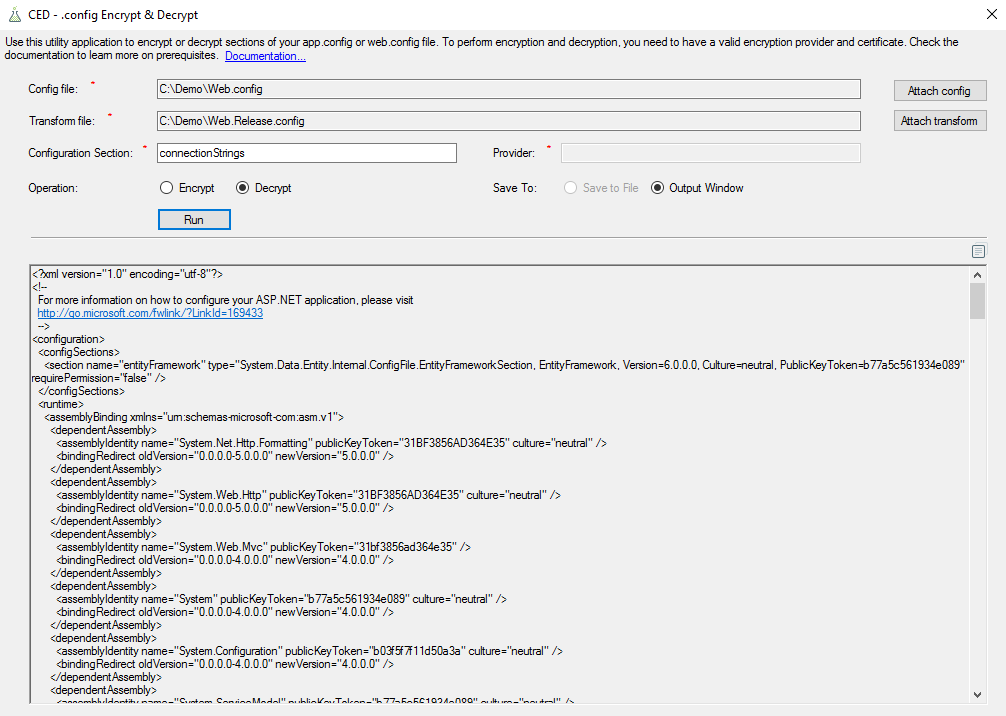
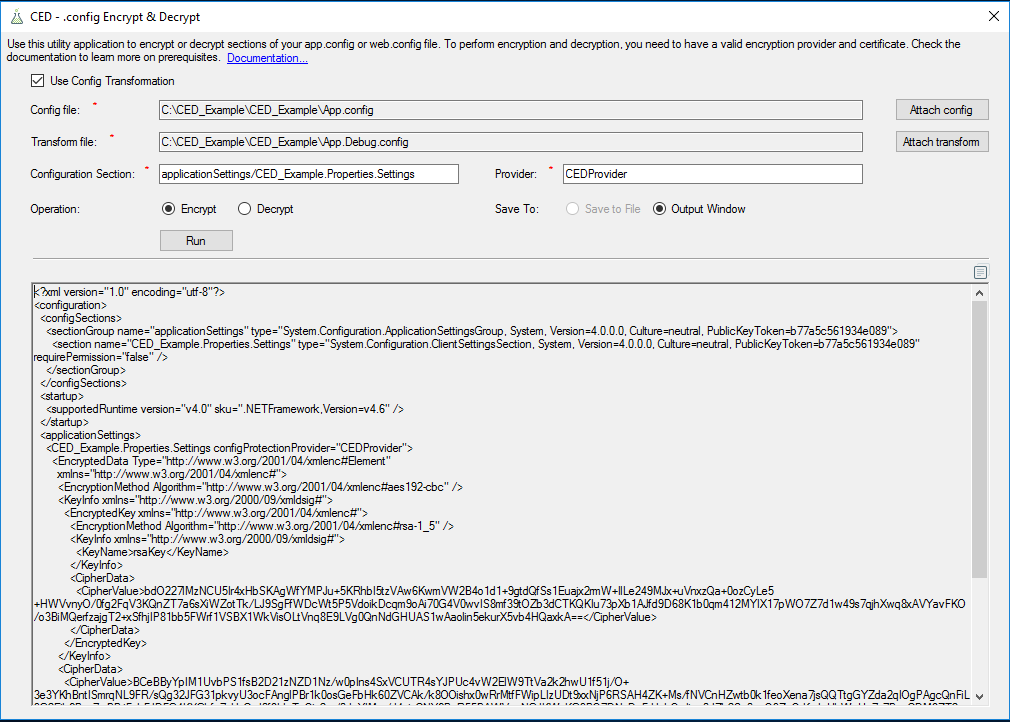
Added option to choose between config and config transformations

diff --git a/CED/MainForm.Designer.cs b/CED/MainForm.Designer.cs
@@ -63,6 +63,7 @@
             this.transformFileTextBox = new System.Windows.Forms.TextBox();
             this.attachButtonTransform = new System.Windows.Forms.Button();
             this.transformFileOpenDialog = new System.Windows.Forms.OpenFileDialog();
+            this.optionCheckBox = new System.Windows.Forms.CheckBox();
             this.operationPanel.SuspendLayout();
             this.saveToPanel.SuspendLayout();
             ((System.ComponentModel.ISupportInitialize)(this.errorProviderFile)).BeginInit();
@@ -81,7 +82,7 @@
             | System.Windows.Forms.AnchorStyles.Left) 
             | System.Windows.Forms.AnchorStyles.Right)));
             this.configFileLabel.AutoSize = true;
-            this.configFileLabel.Location = new System.Drawing.Point(27, 52);
+            this.configFileLabel.Location = new System.Drawing.Point(27, 71);
             this.configFileLabel.Name = "configFileLabel";
             this.configFileLabel.Size = new System.Drawing.Size(56, 13);
             this.configFileLabel.TabIndex = 0;
@@ -104,7 +105,7 @@
             this.configFileTextBox.Anchor = ((System.Windows.Forms.AnchorStyles)((((System.Windows.Forms.AnchorStyles.Top | System.Windows.Forms.AnchorStyles.Bottom) 
             | System.Windows.Forms.AnchorStyles.Left) 
             | System.Windows.Forms.AnchorStyles.Right)));
-            this.configFileTextBox.Location = new System.Drawing.Point(158, 49);
+            this.configFileTextBox.Location = new System.Drawing.Point(158, 68);
             this.configFileTextBox.Name = "configFileTextBox";
             this.configFileTextBox.ReadOnly = true;
             this.configFileTextBox.Size = new System.Drawing.Size(704, 20);
@@ -115,7 +116,7 @@
             this.attachButtonConfig.Anchor = ((System.Windows.Forms.AnchorStyles)((((System.Windows.Forms.AnchorStyles.Top | System.Windows.Forms.AnchorStyles.Bottom) 
             | System.Windows.Forms.AnchorStyles.Left) 
             | System.Windows.Forms.AnchorStyles.Right)));
-            this.attachButtonConfig.Location = new System.Drawing.Point(894, 49);
+            this.attachButtonConfig.Location = new System.Drawing.Point(894, 66);
             this.attachButtonConfig.Name = "attachButtonConfig";
             this.attachButtonConfig.Size = new System.Drawing.Size(95, 23);
             this.attachButtonConfig.TabIndex = 3;
@@ -130,7 +131,7 @@
             | System.Windows.Forms.AnchorStyles.Left) 
             | System.Windows.Forms.AnchorStyles.Right)));
             this.configSectionLabel.AutoSize = true;
-            this.configSectionLabel.Location = new System.Drawing.Point(27, 116);
+            this.configSectionLabel.Location = new System.Drawing.Point(27, 135);
             this.configSectionLabel.Name = "configSectionLabel";
             this.configSectionLabel.Size = new System.Drawing.Size(111, 13);
             this.configSectionLabel.TabIndex = 4;
@@ -141,7 +142,7 @@
             this.configurationSectionTextBox.Anchor = ((System.Windows.Forms.AnchorStyles)((((System.Windows.Forms.AnchorStyles.Top | System.Windows.Forms.AnchorStyles.Bottom) 
             | System.Windows.Forms.AnchorStyles.Left) 
             | System.Windows.Forms.AnchorStyles.Right)));
-            this.configurationSectionTextBox.Location = new System.Drawing.Point(158, 113);
+            this.configurationSectionTextBox.Location = new System.Drawing.Point(158, 132);
             this.configurationSectionTextBox.Name = "configurationSectionTextBox";
             this.configurationSectionTextBox.Size = new System.Drawing.Size(300, 20);
             this.configurationSectionTextBox.TabIndex = 5;
@@ -154,7 +155,7 @@
             | System.Windows.Forms.AnchorStyles.Left) 
             | System.Windows.Forms.AnchorStyles.Right)));
             this.providerLabel.AutoSize = true;
-            this.providerLabel.Location = new System.Drawing.Point(491, 116);
+            this.providerLabel.Location = new System.Drawing.Point(491, 135);
             this.providerLabel.Name = "providerLabel";
             this.providerLabel.Size = new System.Drawing.Size(49, 13);
             this.providerLabel.TabIndex = 6;
@@ -165,7 +166,7 @@
             this.customProviderTextBox.Anchor = ((System.Windows.Forms.AnchorStyles)((((System.Windows.Forms.AnchorStyles.Top | System.Windows.Forms.AnchorStyles.Bottom) 
             | System.Windows.Forms.AnchorStyles.Left) 
             | System.Windows.Forms.AnchorStyles.Right)));
-            this.customProviderTextBox.Location = new System.Drawing.Point(562, 113);
+            this.customProviderTextBox.Location = new System.Drawing.Point(562, 132);
             this.customProviderTextBox.Name = "customProviderTextBox";
             this.customProviderTextBox.Size = new System.Drawing.Size(300, 20);
             this.customProviderTextBox.TabIndex = 7;
@@ -178,7 +179,7 @@
             | System.Windows.Forms.AnchorStyles.Left) 
             | System.Windows.Forms.AnchorStyles.Right)));
             this.operationLabel.AutoSize = true;
-            this.operationLabel.Location = new System.Drawing.Point(27, 151);
+            this.operationLabel.Location = new System.Drawing.Point(27, 170);
             this.operationLabel.Name = "operationLabel";
             this.operationLabel.Size = new System.Drawing.Size(56, 13);
             this.operationLabel.TabIndex = 8;
@@ -190,7 +191,7 @@
             | System.Windows.Forms.AnchorStyles.Left) 
             | System.Windows.Forms.AnchorStyles.Right)));
             this.saveToLabel.AutoSize = true;
-            this.saveToLabel.Location = new System.Drawing.Point(491, 151);
+            this.saveToLabel.Location = new System.Drawing.Point(491, 170);
             this.saveToLabel.Name = "saveToLabel";
             this.saveToLabel.Size = new System.Drawing.Size(51, 13);
             this.saveToLabel.TabIndex = 9;
@@ -217,7 +218,7 @@
             | System.Windows.Forms.AnchorStyles.Right)));
             this.operationPanel.Controls.Add(this.decryptRadioButton);
             this.operationPanel.Controls.Add(this.encryptRadioButton);
-            this.operationPanel.Location = new System.Drawing.Point(158, 146);
+            this.operationPanel.Location = new System.Drawing.Point(158, 165);
             this.operationPanel.Name = "operationPanel";
             this.operationPanel.Size = new System.Drawing.Size(300, 26);
             this.operationPanel.TabIndex = 11;
@@ -240,7 +241,7 @@
             | System.Windows.Forms.AnchorStyles.Right)));
             this.saveToPanel.Controls.Add(this.outputBoxRadioButton);
             this.saveToPanel.Controls.Add(this.saveToFileRadioButton);
-            this.saveToPanel.Location = new System.Drawing.Point(562, 146);
+            this.saveToPanel.Location = new System.Drawing.Point(562, 165);
             this.saveToPanel.Name = "saveToPanel";
             this.saveToPanel.Size = new System.Drawing.Size(300, 26);
             this.saveToPanel.TabIndex = 12;
@@ -275,7 +276,7 @@
             this.runButton.Anchor = ((System.Windows.Forms.AnchorStyles)((((System.Windows.Forms.AnchorStyles.Top | System.Windows.Forms.AnchorStyles.Bottom) 
             | System.Windows.Forms.AnchorStyles.Left) 
             | System.Windows.Forms.AnchorStyles.Right)));
-            this.runButton.Location = new System.Drawing.Point(158, 178);
+            this.runButton.Location = new System.Drawing.Point(158, 197);
             this.runButton.Name = "runButton";
             this.runButton.Size = new System.Drawing.Size(75, 23);
             this.runButton.TabIndex = 13;
@@ -289,7 +290,7 @@
             | System.Windows.Forms.AnchorStyles.Left) 
             | System.Windows.Forms.AnchorStyles.Right)));
             this.horizontalLabel.BorderStyle = System.Windows.Forms.BorderStyle.Fixed3D;
-            this.horizontalLabel.Location = new System.Drawing.Point(32, 207);
+            this.horizontalLabel.Location = new System.Drawing.Point(32, 226);
             this.horizontalLabel.Name = "horizontalLabel";
             this.horizontalLabel.Size = new System.Drawing.Size(957, 2);
             this.horizontalLabel.TabIndex = 14;
@@ -300,10 +301,10 @@
             | System.Windows.Forms.AnchorStyles.Left) 
             | System.Windows.Forms.AnchorStyles.Right)));
             this.outputTextBox.BorderStyle = System.Windows.Forms.BorderStyle.FixedSingle;
-            this.outputTextBox.Location = new System.Drawing.Point(30, 234);
+            this.outputTextBox.Location = new System.Drawing.Point(30, 250);
             this.outputTextBox.Name = "outputTextBox";
             this.outputTextBox.ReadOnly = true;
-            this.outputTextBox.Size = new System.Drawing.Size(959, 441);
+            this.outputTextBox.Size = new System.Drawing.Size(959, 425);
             this.outputTextBox.TabIndex = 15;
             this.outputTextBox.Text = "";
             // 
@@ -325,7 +326,7 @@
             | System.Windows.Forms.AnchorStyles.Left) 
             | System.Windows.Forms.AnchorStyles.Right)));
             this.copyPictureBox.Image = global::CED.Properties.Resources.Copy;
-            this.copyPictureBox.Location = new System.Drawing.Point(973, 212);
+            this.copyPictureBox.Location = new System.Drawing.Point(973, 231);
             this.copyPictureBox.Margin = new System.Windows.Forms.Padding(0);
             this.copyPictureBox.Name = "copyPictureBox";
             this.copyPictureBox.Size = new System.Drawing.Size(16, 16);
@@ -353,7 +354,7 @@
             this.asteriskProviderLabel.AutoSize = true;
             this.asteriskProviderLabel.BackColor = System.Drawing.Color.Transparent;
             this.asteriskProviderLabel.ForeColor = System.Drawing.Color.Red;
-            this.asteriskProviderLabel.Location = new System.Drawing.Point(545, 113);
+            this.asteriskProviderLabel.Location = new System.Drawing.Point(545, 132);
             this.asteriskProviderLabel.Name = "asteriskProviderLabel";
             this.asteriskProviderLabel.Size = new System.Drawing.Size(11, 13);
             this.asteriskProviderLabel.TabIndex = 18;
@@ -367,7 +368,7 @@
             this.asteriskConfSectionLabel.AutoSize = true;
             this.asteriskConfSectionLabel.BackColor = System.Drawing.Color.Transparent;
             this.asteriskConfSectionLabel.ForeColor = System.Drawing.Color.Red;
-            this.asteriskConfSectionLabel.Location = new System.Drawing.Point(141, 113);
+            this.asteriskConfSectionLabel.Location = new System.Drawing.Point(141, 132);
             this.asteriskConfSectionLabel.Name = "asteriskConfSectionLabel";
             this.asteriskConfSectionLabel.Size = new System.Drawing.Size(11, 13);
             this.asteriskConfSectionLabel.TabIndex = 19;
@@ -381,7 +382,7 @@
             this.asteriskConfigLabel.AutoSize = true;
             this.asteriskConfigLabel.BackColor = System.Drawing.Color.Transparent;
             this.asteriskConfigLabel.ForeColor = System.Drawing.Color.Red;
-            this.asteriskConfigLabel.Location = new System.Drawing.Point(89, 49);
+            this.asteriskConfigLabel.Location = new System.Drawing.Point(89, 68);
             this.asteriskConfigLabel.Name = "asteriskConfigLabel";
             this.asteriskConfigLabel.Size = new System.Drawing.Size(11, 13);
             this.asteriskConfigLabel.TabIndex = 20;
@@ -393,7 +394,7 @@
             | System.Windows.Forms.AnchorStyles.Left) 
             | System.Windows.Forms.AnchorStyles.Right)));
             this.label1.AutoSize = true;
-            this.label1.Location = new System.Drawing.Point(27, 84);
+            this.label1.Location = new System.Drawing.Point(27, 103);
             this.label1.Name = "label1";
             this.label1.Size = new System.Drawing.Size(73, 13);
             this.label1.TabIndex = 21;
@@ -407,7 +408,7 @@
             this.asterikTransformLabel.AutoSize = true;
             this.asterikTransformLabel.BackColor = System.Drawing.Color.Transparent;
             this.asterikTransformLabel.ForeColor = System.Drawing.Color.Red;
-            this.asterikTransformLabel.Location = new System.Drawing.Point(106, 81);
+            this.asterikTransformLabel.Location = new System.Drawing.Point(106, 100);
             this.asterikTransformLabel.Name = "asterikTransformLabel";
             this.asterikTransformLabel.Size = new System.Drawing.Size(11, 13);
             this.asterikTransformLabel.TabIndex = 22;
@@ -419,7 +420,7 @@
             | System.Windows.Forms.AnchorStyles.Left) 
             | System.Windows.Forms.AnchorStyles.Right)));
             this.transformFileTextBox.BackColor = System.Drawing.SystemColors.Control;
-            this.transformFileTextBox.Location = new System.Drawing.Point(158, 81);
+            this.transformFileTextBox.Location = new System.Drawing.Point(158, 100);
             this.transformFileTextBox.Name = "transformFileTextBox";
             this.transformFileTextBox.Size = new System.Drawing.Size(704, 20);
             this.transformFileTextBox.TabIndex = 23;
@@ -429,7 +430,7 @@
             this.attachButtonTransform.Anchor = ((System.Windows.Forms.AnchorStyles)((((System.Windows.Forms.AnchorStyles.Top | System.Windows.Forms.AnchorStyles.Bottom) 
             | System.Windows.Forms.AnchorStyles.Left) 
             | System.Windows.Forms.AnchorStyles.Right)));
-            this.attachButtonTransform.Location = new System.Drawing.Point(894, 79);
+            this.attachButtonTransform.Location = new System.Drawing.Point(894, 98);
             this.attachButtonTransform.Name = "attachButtonTransform";
             this.attachButtonTransform.Size = new System.Drawing.Size(95, 23);
             this.attachButtonTransform.TabIndex = 24;
@@ -438,12 +439,24 @@
             this.attachButtonTransform.Click += new System.EventHandler(this.attachButtonTransform_Click);
             this.attachButtonTransform.Validating += new System.ComponentModel.CancelEventHandler(this.attachButtonTransform_Validating);
             // 
+            // optionCheckBox
+            // 
+            this.optionCheckBox.AutoSize = true;
+            this.optionCheckBox.Location = new System.Drawing.Point(30, 41);
+            this.optionCheckBox.Name = "optionCheckBox";
+            this.optionCheckBox.Size = new System.Drawing.Size(151, 17);
+            this.optionCheckBox.TabIndex = 25;
+            this.optionCheckBox.Text = "Use Config Transformation";
+            this.optionCheckBox.UseVisualStyleBackColor = true;
+            this.optionCheckBox.CheckedChanged += new System.EventHandler(this.optionCheckBox_CheckedChanged);
+            // 
             // MainForm
             // 
             this.AutoScaleDimensions = new System.Drawing.SizeF(6F, 13F);
             this.AutoScaleMode = System.Windows.Forms.AutoScaleMode.Font;
             this.AutoSize = true;
             this.ClientSize = new System.Drawing.Size(1008, 687);
+            this.Controls.Add(this.optionCheckBox);
             this.Controls.Add(this.attachButtonTransform);
             this.Controls.Add(this.transformFileTextBox);
             this.Controls.Add(this.asterikTransformLabel);
@@ -525,6 +538,7 @@
         private System.Windows.Forms.Label asterikTransformLabel;
         private System.Windows.Forms.Label label1;
         private System.Windows.Forms.OpenFileDialog transformFileOpenDialog;
+        private System.Windows.Forms.CheckBox optionCheckBox;
     }
 }
 

diff --git a/CED/MainForm.cs b/CED/MainForm.cs
@@ -20,13 +20,13 @@ namespace CED
         public MainForm()
         {
             InitializeComponent();
+            SetupForm();
         }
 
         private void runButton_Click(object sender, EventArgs e)
         {
-            if (ValidateFormData())
+            if (ValidateFormData(optionCheckBox.Checked))
             {
-
                 errorProviderConfigSection.Clear();
                 errorProviderCustomProvider.Clear();
                 errorProviderFile.Clear();
@@ -38,19 +38,16 @@ namespace CED
                 var transformFileName = Path.GetFileName(transformFileOpenDialog.FileName);
 
                 Directory.CreateDirectory(tempDirectoryName);
-                //File.Copy(configFileOpenDialog.FileName, $"{tempDirectoryName}\\web.config");
 
                 System.Diagnostics.Process process = new System.Diagnostics.Process();
                 System.Diagnostics.ProcessStartInfo startInfo = new System.Diagnostics.ProcessStartInfo();
                 startInfo.WindowStyle = System.Diagnostics.ProcessWindowStyle.Hidden;
                 startInfo.FileName = "cmd.exe";
-                
 
                 startInfo.RedirectStandardOutput = true;
                 startInfo.RedirectStandardError = true;
                 startInfo.UseShellExecute = false;
                 startInfo.CreateNoWindow = true;
-
 
                 startInfo.WorkingDirectory = tempDirectoryName;
 
@@ -60,16 +57,24 @@ namespace CED
                     customProviderTextBox);
                 Settings.Default.Save();
 
-                var transformedFilePath = Path.GetFullPath($"{tempDirectoryName}\\web.config");
+                // Working with config transformations
+                if (optionCheckBox.Checked)
+                {
+                    var transformedFilePath = Path.GetFullPath($"{tempDirectoryName}\\web.config");
 
-                startInfo.Arguments =
-                    $"/C {Environment.CurrentDirectory}\\ctt.exe \"source: \"{configFileTextBox.Text}\"\" \"transform: \"{transformFileTextBox.Text}\"\" \"destination: \"{transformedFilePath}\"\"";
+                    startInfo.Arguments =
+                        $"/C {Environment.CurrentDirectory}\\ctt.exe \"source: \"{configFileTextBox.Text}\"\" \"transform: \"{transformFileTextBox.Text}\"\" \"destination: \"{transformedFilePath}\"\"";
 
-                process.StartInfo = startInfo;
-                process.Start();
-                process.WaitForExit();
+                    process.StartInfo = startInfo;
+                    process.Start();
+                    process.WaitForExit();
 
-                formatDocument(tempDirectoryName);
+                    FormatDocument(tempDirectoryName);
+                }
+                else
+                {
+                    File.Copy(configFileOpenDialog.FileName, $"{tempDirectoryName}\\web.config");   
+                }
 
                 if (encryptRadioButton.Checked)
                 {
@@ -204,13 +209,17 @@ namespace CED
             return true;
         }
 
-        private bool ValidateFormData()
+        private bool ValidateFormData(bool boxChecked)
         {
             var customProviderStatus = ValidateCustomProvider();
-            var fileStatus = ValidateConfigFile() && ValidateTransformFile();
+            var configFileStatus = ValidateConfigFile();
+            if (boxChecked)
+            {
+                configFileStatus &= ValidateTransformFile();
+            }
             var configurationStatus = ValidateConfigurationSection();
 
-            return customProviderStatus && fileStatus && configurationStatus;
+            return customProviderStatus && configFileStatus && configurationStatus;
         }
 
         private bool ValidateConfigFile()
@@ -261,7 +270,7 @@ namespace CED
             {
                 Clipboard.SetText(outputTextBox.Text);
             }
-            catch (System.ArgumentNullException argException)
+            catch (System.ArgumentNullException)
             {
                 
             }
@@ -290,11 +299,22 @@ namespace CED
             tt.SetToolTip(this.customProviderTextBox, "The name of your custom provider, must be referenced from the .config file.");
         }
 
-        private void formatDocument(string tempDirectoryName)
+        private void FormatDocument(string tempDirectoryName)
         {
             string data = System.IO.File.ReadAllText($"{tempDirectoryName}\\web.config");
             var doc = XDocument.Parse(data);
             doc.Save($"{tempDirectoryName}\\web.config");
+        }
+
+        private void optionCheckBox_CheckedChanged(object sender, EventArgs e)
+        {
+            SetupForm();
+        }
+
+        private void SetupForm()
+        {
+            transformFileTextBox.Enabled = optionCheckBox.Checked;
+            attachButtonTransform.Enabled = optionCheckBox.Checked;
         }
     }
 }
